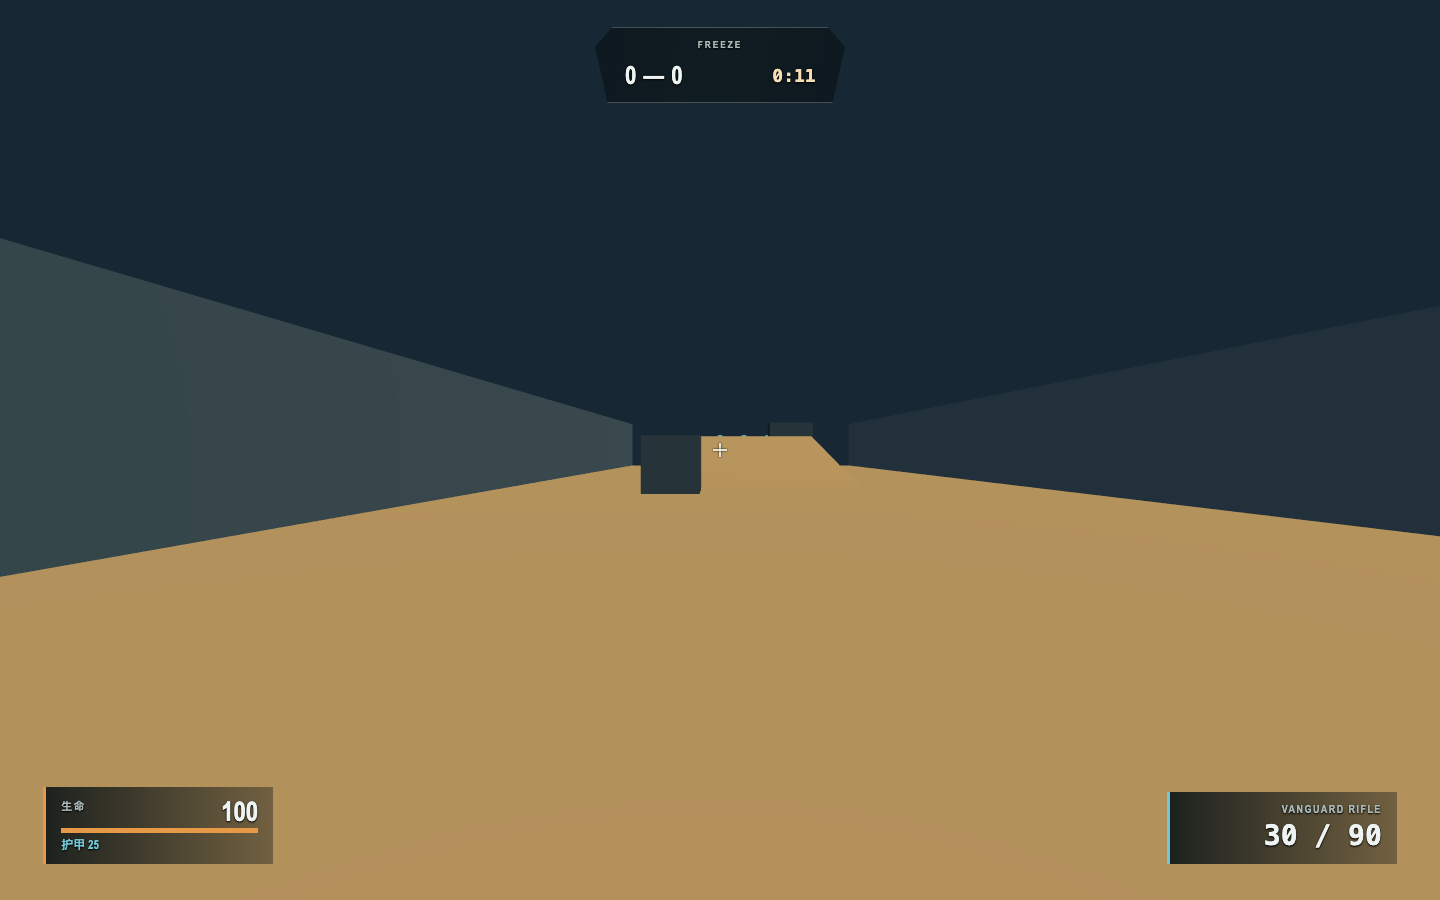
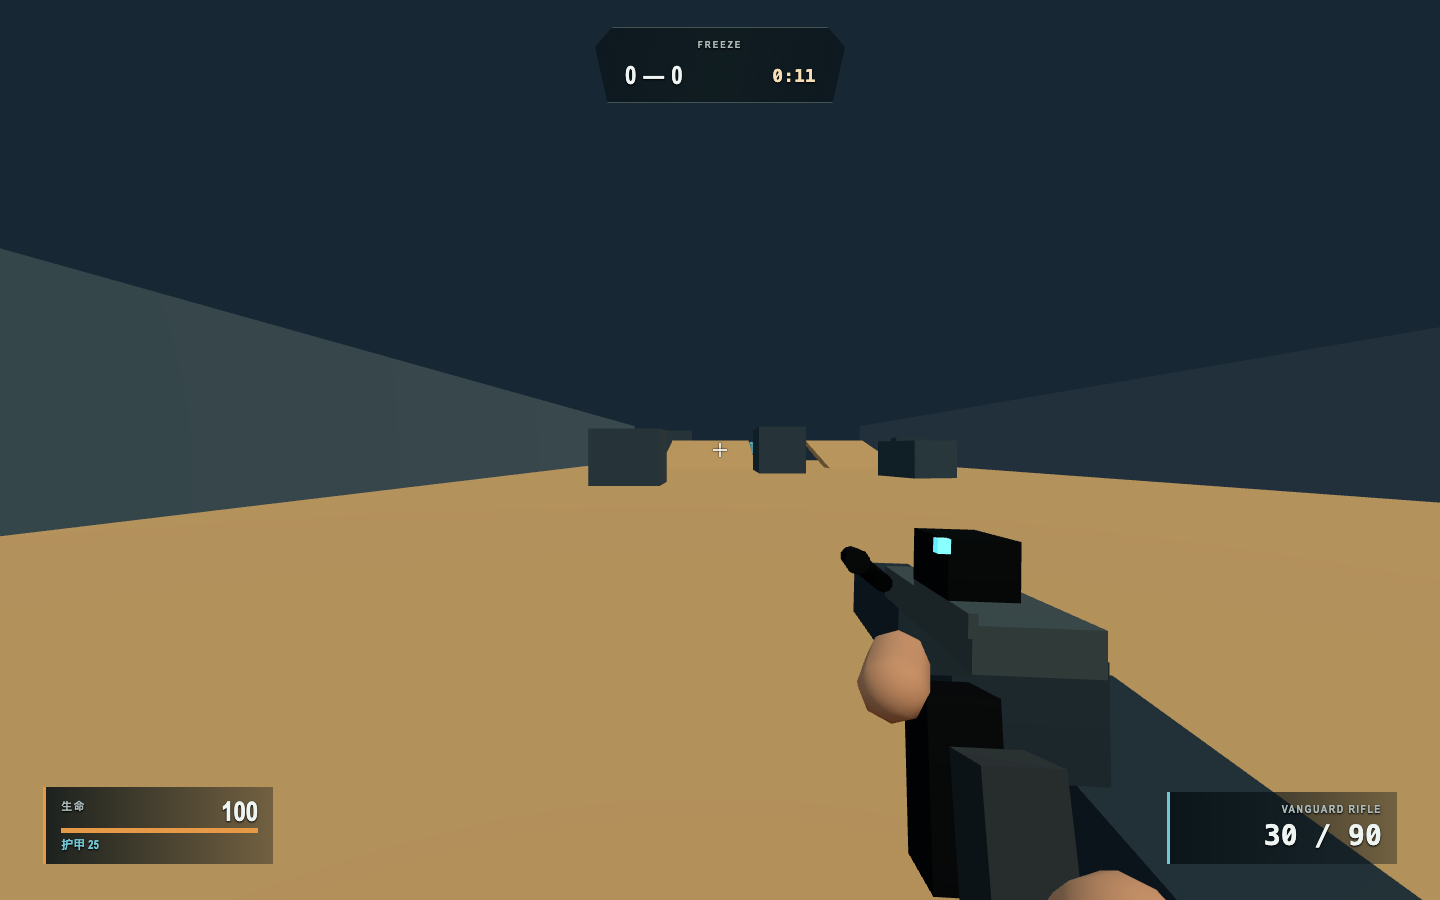
test: verify expanded combat pass

diff --git a/e2e/vertical-slice.spec.ts b/e2e/vertical-slice.spec.ts
@@ -104,12 +104,12 @@ test('composed plant, defuse, result transition, and restart use real systems', 
   const result = await page.evaluate(() => {
     const qa = window.__THREE_GAME_QA__!;
     qa.advance(721);
-    qa.place('attack-human', { x: 0, y: 2.8, z: -18 });
+    qa.place('attack-human', { x: -1, y: 3, z: -29 });
     qa.command('attack-human', { interact: true });
     qa.advance(193);
     const planted = qa.state;
     qa.clearCommands();
-    qa.place('attack-human', { x: -8, y: 1, z: 20 });
+    qa.place('attack-human', { x: -14, y: 1, z: 25 });
     qa.place('defense-bot-1', qa.bomb.position);
     qa.command('defense-bot-1', { interact: true });
     qa.advance(421);
@@ -144,19 +144,19 @@ test('composed WeaponSystem elimination awards attack', async ({ page }) => {
   const state = await page.evaluate(() => {
     const qa = window.__THREE_GAME_QA__!;
     qa.advance(721);
-    qa.place('attack-human', { x: 8, y: 1, z: 10 });
-    for (const teammate of ['attack-bot-1', 'attack-bot-2']) qa.place(teammate, { x: -8, y: 1, z: 20 });
+    qa.place('attack-human', { x: 14, y: 1, z: 10 });
+    for (const teammate of ['attack-bot-1', 'attack-bot-2']) qa.place(teammate, { x: -14, y: 1, z: 25 });
     const defenders = ['defense-bot-1', 'defense-bot-2', 'defense-bot-3'];
-    for (const defender of defenders) qa.place(defender, { x: -8, y: 1, z: -20 });
+    for (const defender of defenders) qa.place(defender, { x: -14, y: 1, z: -25 });
     for (const defender of defenders) {
-      qa.place(defender, { x: 8, y: 1, z: 5 });
+      qa.place(defender, { x: 14, y: 1, z: 5 });
       for (let shot = 0; shot < 5; shot++) {
         qa.command('attack-human', { fire: true, slot: 1, yaw: 0, pitch: 0 });
         qa.advance(1);
         qa.command('attack-human', { fire: false, slot: 1, yaw: 0, pitch: 0 });
         qa.advance(7);
       }
-      qa.place(defender, { x: -8, y: 1, z: -20 });
+      qa.place(defender, { x: -14, y: 1, z: -25 });
     }
     return qa.state;
   });
@@ -179,12 +179,12 @@ test('death reconciliation clears combat, navigation, support, and render partic
     };
 
     qa.advance(721);
-    qa.place('attack-human', { x: 8, y: 1, z: 10 });
-    qa.place('attack-bot-1', { x: -8, y: 1, z: 20 });
-    qa.place('attack-bot-2', { x: -7, y: 1, z: 20 });
-    qa.place('defense-bot-1', { x: 8, y: 1, z: 7 });
-    qa.place('defense-bot-2', { x: 8, y: 1, z: 4 });
-    qa.place('defense-bot-3', { x: -8, y: 1, z: -20 });
+    qa.place('attack-human', { x: 14, y: 1, z: 10 });
+    qa.place('attack-bot-1', { x: -14, y: 1, z: 25 });
+    qa.place('attack-bot-2', { x: -13, y: 1, z: 25 });
+    qa.place('defense-bot-1', { x: 14, y: 1, z: 7 });
+    qa.place('defense-bot-2', { x: 14, y: 1, z: 4 });
+    qa.place('defense-bot-3', { x: -14, y: 1, z: -25 });
     fire(4);
     const deathPosition = qa.state.actors.find(({ id }) => id === 'defense-bot-1')!.position;
     const deadWorld = qa.actorWorldStatus('defense-bot-1');
@@ -194,9 +194,9 @@ test('death reconciliation clears combat, navigation, support, and render partic
     const visibleThroughDeath = qa.canActorsSee('attack-human', 'defense-bot-2');
     const deadSupported = qa.isActorSupported('defense-bot-1');
 
-    qa.place('attack-human', { x: -8, y: 1, z: 20 });
-    qa.place('defense-bot-2', { x: -7, y: 1, z: -20 });
-    qa.place('attack-bot-1', { x: 8, y: 1, z: 9 });
+    qa.place('attack-human', { x: -14, y: 1, z: 25 });
+    qa.place('defense-bot-2', { x: -13, y: 1, z: -25 });
+    qa.place('attack-bot-1', { x: 14, y: 1, z: 9 });
     qa.command('attack-bot-1', { moveZ: -1, yaw: 0 });
     qa.advance(60);
     const navigatorZ = qa.state.actors.find(({ id }) => id === 'attack-bot-1')!.position.z;
@@ -230,9 +230,9 @@ test('death reconciliation clears combat, navigation, support, and render partic
   expect(result.deadSupported).toBe(false);
   expect(result.navigatorZ).toBeLessThan(6);
   expect(result.retainedDeathPosition).toEqual(result.deathPosition);
-  expect(result.resourcesWhileDead).toMatchObject({ bodies: 6, colliders: 12 });
+  expect(result.resourcesWhileDead).toMatchObject({ bodies: 6 });
   expect(result.restartedWorld).toMatchObject({ active: true, raycastRegistered: true, meshVisible: true });
   expect(result.restartedState).toMatchObject({ round: 1, attackScore: 0, defenseScore: 0 });
-  expect(result.restartedResources).toMatchObject({ bodies: 6, colliders: 12 });
+  expect(result.restartedResources).toEqual(result.resourcesWhileDead);
   expect(result.restartedRenderer.geometries).toBeLessThanOrEqual(result.rendererWhileDead.geometries);
 });

diff --git a/docs/verification/vertical-slice.md b/docs/verification/vertical-slice.md
@@ -1,10 +1,18 @@
 # Border Station vertical-slice verification
 
-Date: 2026-07-13 (Asia/Shanghai)
+Date: 2026-07-14 (Asia/Shanghai)
 
 ## Result
 
 PASS for the scoped desktop vertical slice. The production preview starts behind a deliberate modal, resumes only after confirmed pointer lock, runs one 60 Hz RAF composition, uses Rapier support queries for jumping, renders six command-driven actors, exposes snapshot-only HUD state, pauses on Escape/pointer-lock loss, and restarts without adding physics bodies, colliders, renderer geometries, listeners, or RAF loops.
+
+## Expanded combat pass
+
+The July 14 pass expands the arena from 22×64 m to 34×94 m, separates attack and defense spawns by 75 m, adds a second ramp, six cover solids, and branched left/right navigation lanes. Bot perception now reaches 42 m across a 120-degree cone; deterministic reaction time is 0.16–0.38 seconds, aim error is reduced, and bots advance/strafe while engaging beyond 15 m.
+
+The player now has a camera-mounted procedural rifle and pistol with named receiver/slide, handguard, barrel, muzzle, magazine, stock/grip, sight, and hand meshes. The rig switches with weapon slot, hides on death, and responds to movement, firing, reloading, and pause state. It is visual-only and does not add physics colliders or raycast targets.
+
+Fresh verification passed with 16 Vitest files / 80 tests, TypeScript no-emit, Vite production build, and all 8 Playwright Chromium scenarios. The updated browser suite uses the expanded bomb site and unobstructed combat lanes, reports zero page/console/network errors, and verifies restart resource counts by equality rather than an obsolete fixed collider count. Built JS is 2,799.16 kB minified / 987.61 kB gzip (size warning only).
 
 Known release note: Vite reports a 2,790.87 kB minified / 984.97 kB gzip JavaScript chunk, primarily Three.js + Rapier. Code splitting is deferred beyond this vertical slice.
 